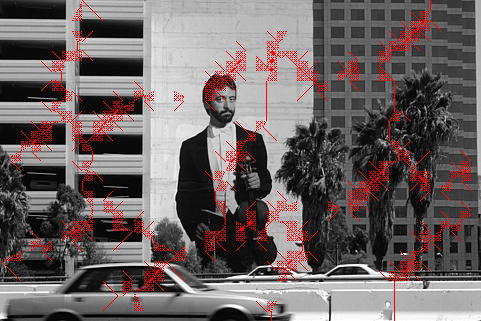
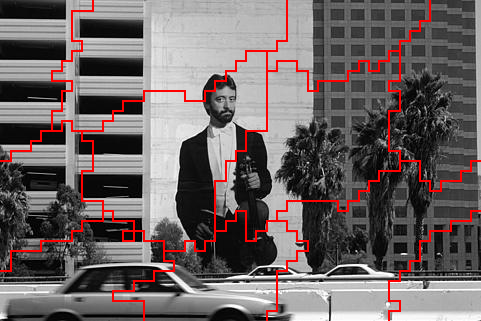
fix: scaling borders

diff --git a/util.py b/util.py
@@ -33,64 +33,15 @@ def define_grad(img):
 		) for j in range(w)] for i in range(h)]
 	
 	return G
-	
-taskeru = []
-
-def erode_borders(S, w, h):
-
-	print(len(S))
-
-	matriz_legal = [[0 for j in range(w)] for i in range(h)]
-
-	# returns the image coordinates (i.e. (x, y)) from a pixel id
-	def coord(v):
-		return (int(v - w*(v//w)), int(v//w))
-	
-	for s in S:
-		j, i = coord(s)
-		matriz_legal[i][j] = 1
-	
-	# returns whether a and b are in different parts
-	def dif(a):
-		return matriz_legal[a[1]][a[0]]
-	
-	def neighbour_count(v):
-		i, j = coord(v)
-
-		k = 1
-
-		#
-		val_right = 		dif((i + k, j)) if i < w - k else 1
-		val_left = 			dif((i - k, j)) if i > 0 else 1
-		val_top = 			dif((i, j - k)) if j > 0 else 1
-		val_bottom = 		dif((i, j + k)) if j < h - k else 1
-		val_upright = 		dif((i + k, j - k)) if j > 0 and i < w - k else 1
-		val_upleft = 		dif((i - k, j - k)) if j > 0 and i > 0 else 1
-		val_bottomright = 	dif((i + k, j + k)) if j < h - k and i < w - k else 1
-		val_bottomleft = 	dif((i - k, j + k)) if j < h - k and i > 0 else 1
-		
-		#return (val_right + val_left + val_top + val_bottom + val_upright + val_upleft
-		#		+ val_bottomright + val_bottomleft)
-
-		return (val_right + val_left + val_top + val_bottom)
-	
-	new_S = []
-
-	for s in S:
-		n = neighbour_count(s)
-		if n == 4 or n <= 2:
-			new_S.append(s)
-
-	if len(new_S) - len(S) != 0:
-		return erode_borders(new_S, w, h)
-	else:
-		return S
 
 def find_borders(S, w, h):
 
 	"""
 	Returns the borders of a partition of S
 	"""
+
+	# Matrix of the image representing the partition
+	part_matrix = [[-1 for j in range(w)] for i in range(h)]
 	
 	# Local utils
 	
@@ -100,40 +51,46 @@ def find_borders(S, w, h):
 	
 	# returns whether a and b are in different parts
 	def dif(a, b):
-		a = a[0] + a[1]*w # converting back to pixel id
-		return any([(a in s and b not in s) for s in S])
-
+		return part_matrix[a[1]][a[0]] != part_matrix[b[1]][b[0]]
 	
 	# returns if pixel is in a border
 	def in_border(v):
 		i, j = coord(v)
+		v = (i, j)
 		
 		# checking if any of the neighbours are in different parts
-		val_right = 		dif((i + 1, j), v) if i < w - 1 else False
+		val_right = dif((i + 1, j), v) if i < w - 1 else False
 
 		if not val_right:
-			val_left = 			dif((i - 1, j), v) if i > 0 else False
+			val_left = dif((i - 1, j), v) if i > 0 else False
 
 			if not val_left:
-				val_top = 			dif((i, j - 1), v) if j > 0 else False
+				val_top = dif((i, j - 1), v) if j > 0 else False
 
 				if not val_top:
-					val_bottom = 		dif((i, j + 1), v) if j < h - 1 else False
+					val_bottom = dif((i, j + 1), v) if j < h - 1 else False
 
 					if not val_bottom:
-						val_upright = 		dif((i + 1, j - 1), v) if j > 0 and i < w - 1 else False
+						val_upright = dif((i + 1, j - 1), v) if j > 0 and i < w - 1 else False
 
 						if not val_upright:
-							val_upleft = 		dif((i - 1, j - 1), v) if j > 0 and i > 0 else False
+							val_upleft = dif((i - 1, j - 1), v) if j > 0 and i > 0 else False
 
 							if not val_upleft:
-								val_bottomright = 	dif((i + 1, j + 1), v) if j < h - 1 and i < w - 1 else False
+								val_bottomright = dif((i + 1, j + 1), v) if j < h - 1 and i < w - 1 else False
 
 								if not val_bottomright:
-									val_bottomleft = 	dif((i - 1, j + 1), v) if j < h - 1 and i > 0 else False
+									val_bottomleft = dif((i - 1, j + 1), v) if j < h - 1 and i > 0 else False
 		
 		return (val_right or val_left or val_top or val_bottom or val_upright or val_upleft
 				or val_bottomright or val_bottomleft)
+
+
+	# Filling part_matrix
+	for k in range(len(S)):
+		for p in S[k]:
+			j, i = coord(p)
+			part_matrix[i][j] = k
 
 	# Initializing algorithm
 
@@ -156,7 +113,7 @@ def coarse_image(I, new_h = 32):
 	
 	return I.resize((new_w, new_h), Image.BICUBIC)
 	
-def scale_partition(S, old_w, old_h, w, h, borders_):
+def scale_partition(S, old_w, old_h, w, h):
 
 	"""
 	Returns partition scaled up
@@ -164,7 +121,6 @@ def scale_partition(S, old_w, old_h, w, h, borders_):
 
 	# Turning tree into a list of parts
 	parts = []
-	mapa_legal = {}
 	
 	def flatten(S):
 	
@@ -185,11 +141,7 @@ def scale_partition(S, old_w, old_h, w, h, borders_):
 
 		for i in range(len(parts)):
 			if old_p in parts[i]:
-				S_new[i].append(new_p)
-
-				if old_p in borders_:
-					taskeru.append(new_p)
-				
+				S_new[i].append(new_p)			
 				break
 
 	w_r = w / old_w
@@ -203,7 +155,7 @@ def scale_partition(S, old_w, old_h, w, h, borders_):
 			
 			add_to_part(i + j*w, i_ + j_*old_w)
 	
-	return (S_new, taskeru)
+	return S_new
 	
 
 def print_mat(I):

diff --git a/image_segmentation.py b/image_segmentation.py
@@ -193,23 +193,6 @@ def draw_segmentation(filename, borders):
 	
 	return new_name
 
-def fuuuck(S):
-	parts = []
-	
-	def flatten(S):
-	
-		# arrived at a leaf
-		if not isinstance(S[0], list):
-			parts.append(S)
-			return
-		
-		for s in S:
-			flatten(s)
-			
-	flatten(S)
-
-	return parts
-
 def image_segmentation(filename, smallest_segment_size = 256):
 
 	start_time = time.time()
@@ -232,20 +215,17 @@ def image_segmentation(filename, smallest_segment_size = 256):
 	
 	report("Partição espectral do grafo feita.", report_list)
 
-	borders = find_borders(fuuuck(graph_partition), w, h) #
-	
 	# scaling partition to original image dimensions
-	scaled_partition, borders = scale_partition(graph_partition, w, h, w_, h_, borders)
+	scaled_partition = scale_partition(graph_partition, w, h, w_, h_)
 	
 	report("Tamanho da partição aumentado para imagem original.", report_list)
-
-	new_borders = erode_borders(borders, w_, h_) #
 	
-	#borders = find_borders(scaled_partition, w_, h_)
+	borders = find_borders(scaled_partition, w_, h_)
 	
 	report("Bordas das partições feitas.", report_list)
 	
-	final_image_name = draw_segmentation(filename, new_borders) #saving copy of image with borders drawn
+	#saving copy of image with borders drawn
+	final_image_name = draw_segmentation(filename, borders)
 	
 	report("Execução finalizada após " + str((time.time() - start_time)) + " segundos.", report_list)
 	
